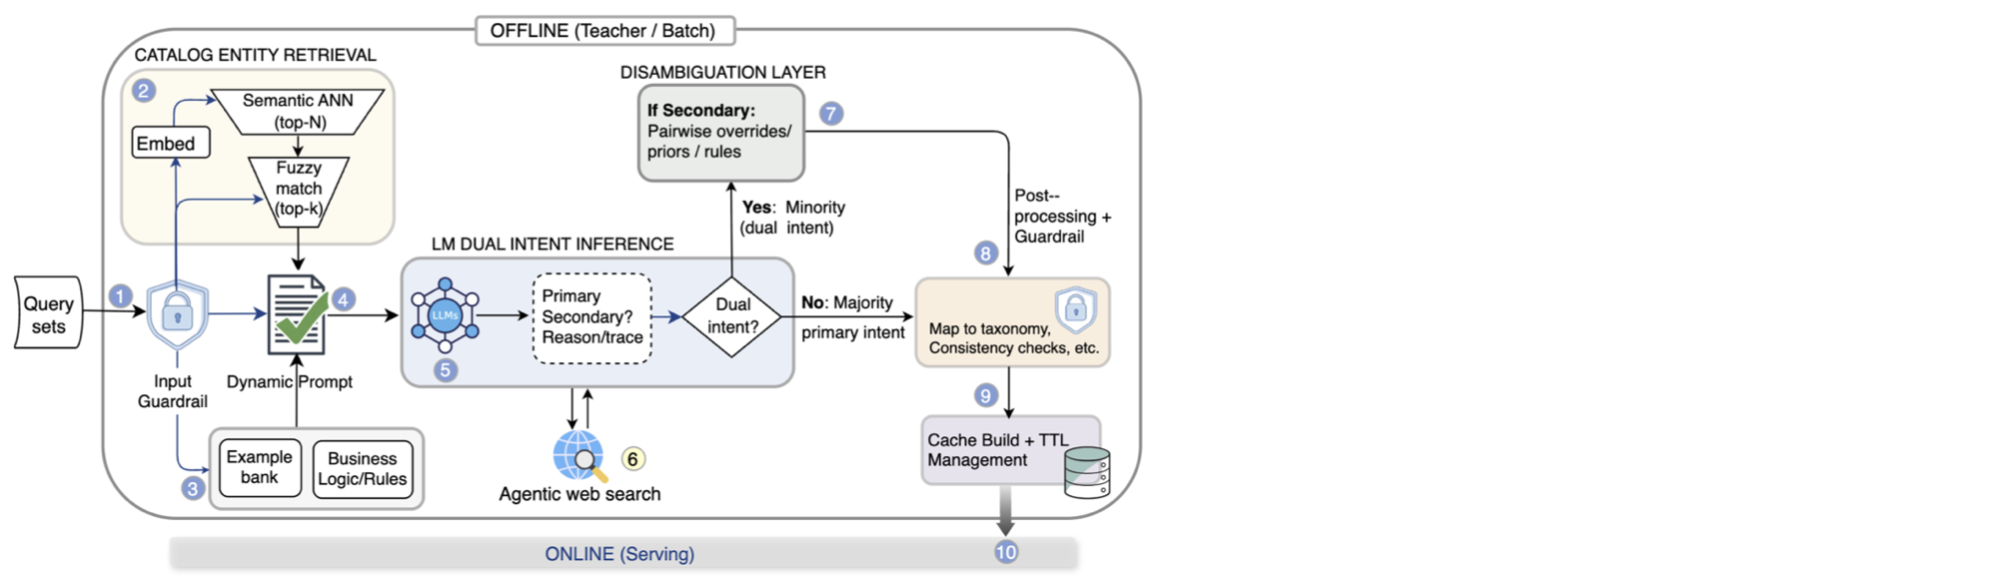
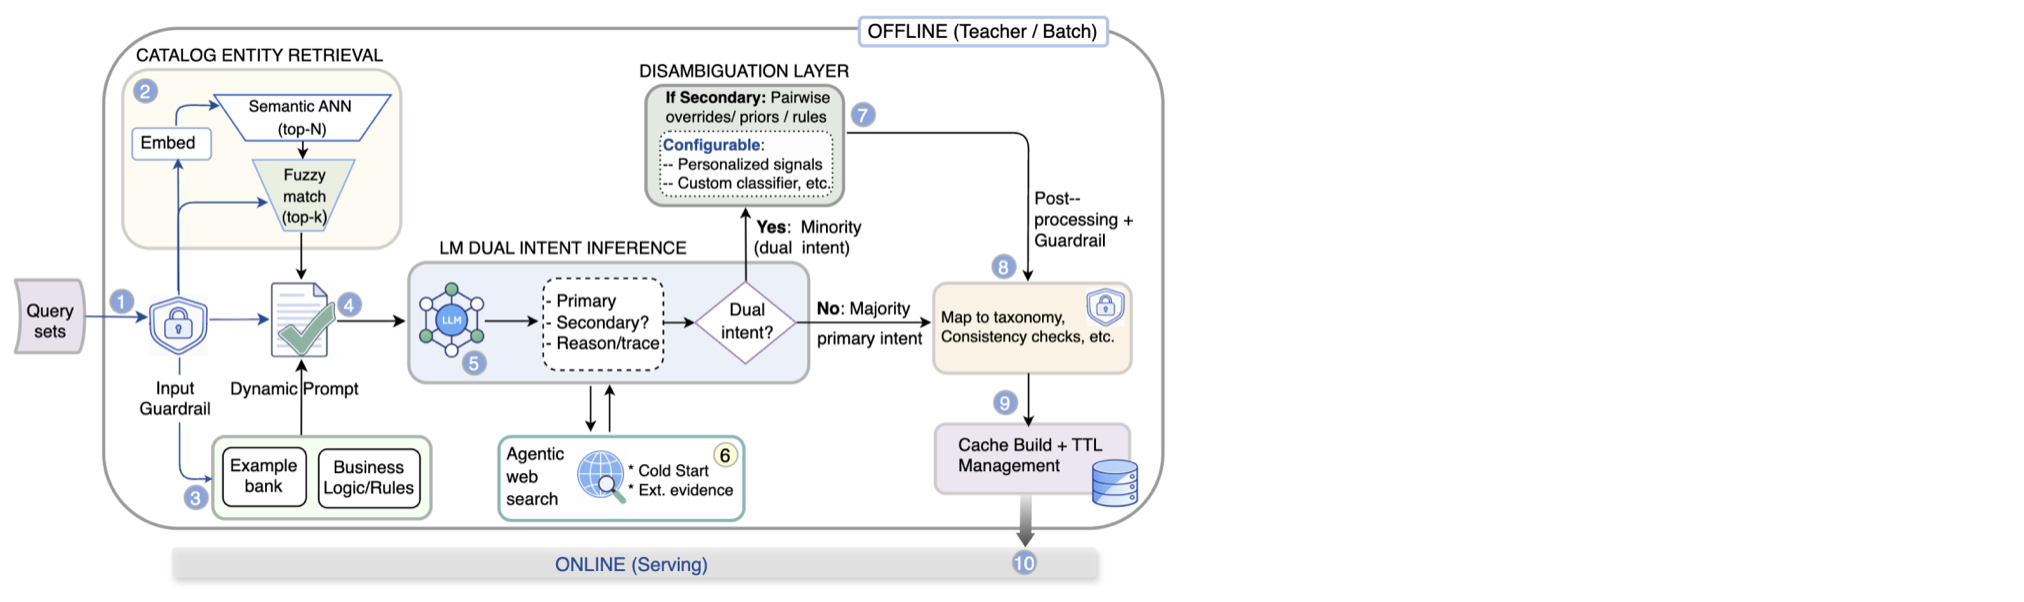
research work updates

Changed region(s): [[0.0, 0.0, 0.592, 0.9522], [0.2492, 0.9215, 0.3739, 0.9829]]

diff --git a/research.html b/research.html
@@ -60,17 +60,36 @@
           <div class="row gtr-uniform">
             <div class="col-12">
               <span class="image fit no-margin-bottom">
-                <img src="images/agentic_qiu.png" alt="" />
+                <img src="images/sapo_cais.png" alt="" />
               </span>
               <p class="no-margin-top" style="text-align:justify;"><a
-                  href="https://arxiv.org/abs/2603.01486">Agentic Multi-Source Grounding for Enhanced Query Intent Understanding: A DoorDash Case Study</a><br>
-                  <b>Emmanuel Aboah Boateng</b>, Kyle MacDonald, Akshad Viswanathan, and Sudeep Das.<br>
-                Accepted to ACM SIGIR 2026.
+                  href="https://www.caisconf.org/program/2026/papers/sapo-secure-automated-prompt-optimization-via-multi-agent-collaboration/">SAPO: Secure Automated Prompt Optimization via Multi-Agent Collaboration</a><br>
+                  <b>Emmanuel Aboah Boateng</b>, Zachary Johnson, Tian Xia, Sarah Zhang, Aidan Jay,<br>
+                  Junyao Feng, Aditya Mate, Ehi Nosakhare <br>
+                Accepted to ACM Conference on AI and Agentic Systems, 2026.
               </p>
             </div>
           </div>
         </div>
+        </section> 
+        <hr />
+
         </section>
+        <div class="box alt">
+          <div class="row gtr-uniform">
+            <div class="col-12">
+              <span class="image fit no-margin-bottom">
+                <img src="images/agentic_qiu.png" alt="" />
+              </span>
+              <p class="no-margin-top" style="text-align:justify;"><a
+                  href="https://arxiv.org/abs/2603.01486">Agentic Multi-Source Grounding for Enhanced Query Intent Understanding: A DoorDash Case Study</a><br>
+                  <b>Emmanuel Aboah Boateng</b>, Kyle MacDonald, Akshad Viswanathan, and Sudeep Das<br>
+                Accepted to ACM SIGIR, 2026.
+              </p>
+            </div>
+          </div>
+        </div>
+        </section> 
         <hr />
 
         </section>